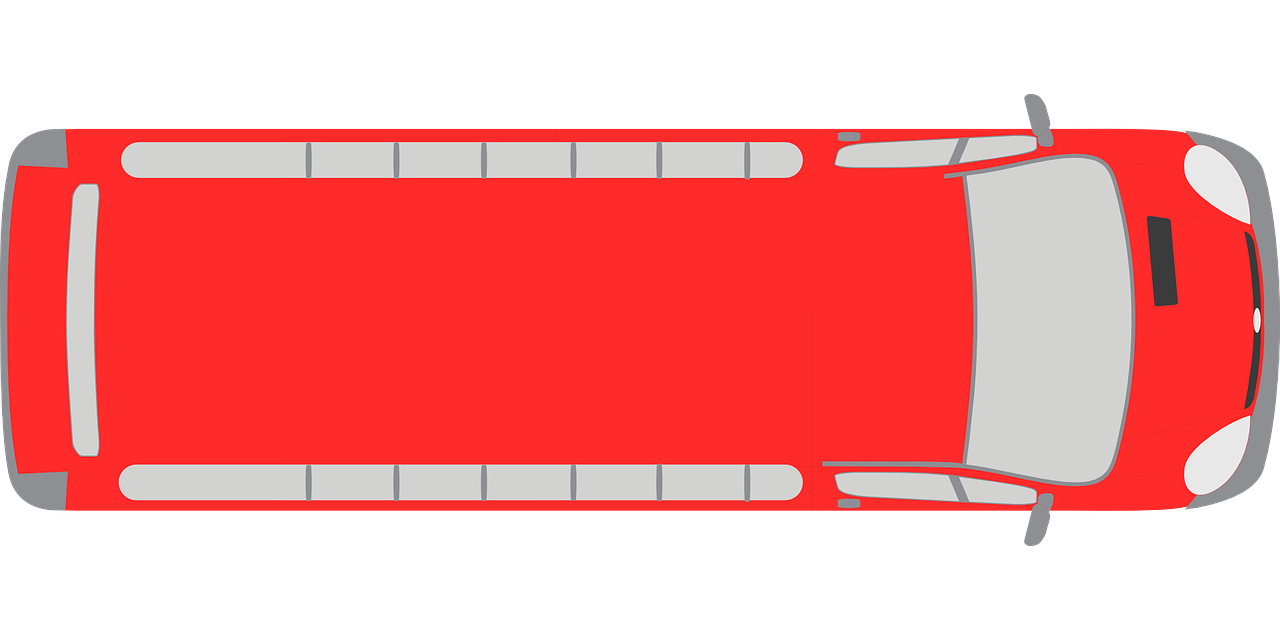
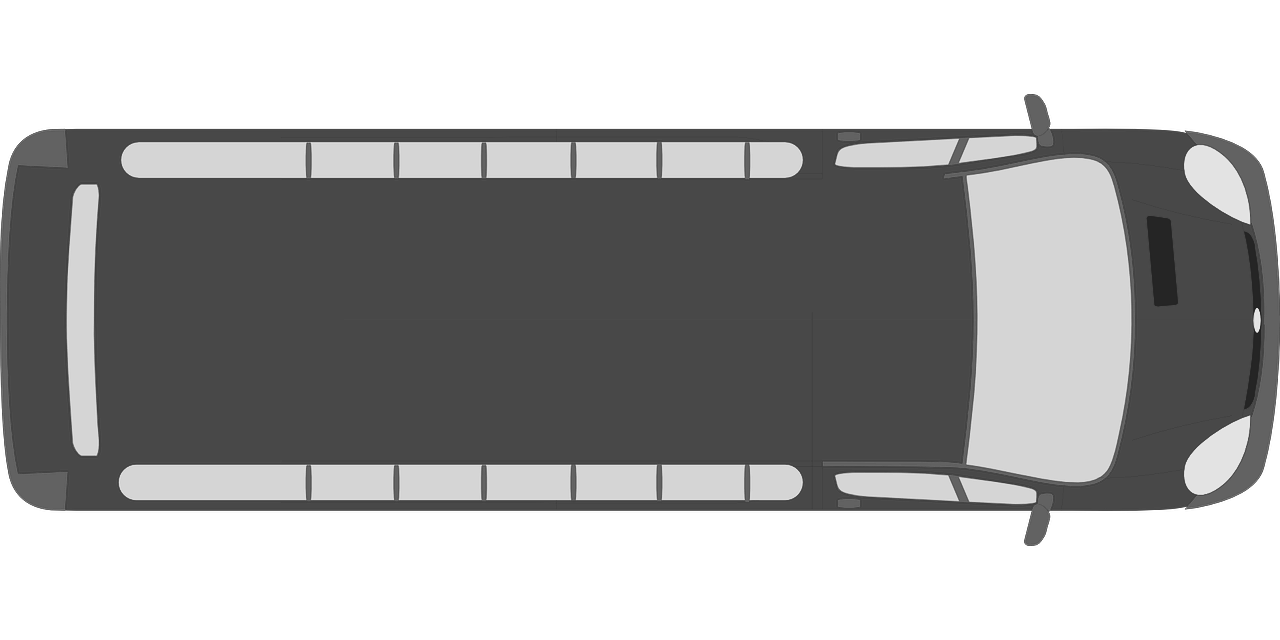
Almost done with the Login Page

diff --git a/fleetlink/src/pages/LandingPage.js b/fleetlink/src/pages/LandingPage.js
@@ -1,8 +1,9 @@
 import React, { useState } from 'react'
 import backgound from '../assets/asia-2181888.jpg'
-import { HashLoader } from 'react-spinners'
+// import { HashLoader } from 'react-spinners'
 import { GoArrowRight } from 'react-icons/go'
 import { useNavigate } from 'react-router-dom'
+import LoaderBus from '../assets/bus-310766_1280.png'
 
 const LandingPage = () => {
 
@@ -17,7 +18,7 @@ const LandingPage = () => {
     setLoading(false); // Reset loading after 3 seconds
       // You can navigate to the login page or perform other actions here
       history('/login')
-    }, 1500);
+    }, 3500);
   };
 
   const handleSignupClick = () => {
@@ -27,7 +28,7 @@ const LandingPage = () => {
     setLoading(false); // Reset loading after 3 seconds
       // You can navigate to the login page or perform other actions here
       history('/signup')
-    }, 1500);
+    }, 3500);
   };
 
 
@@ -59,10 +60,15 @@ const LandingPage = () => {
           
         </div>
       </div>
-      {loading && <div className="absolute inset-0 bg-transparent w-full h-full bg-opacity-80 backdrop-blur-sm" />}
+      {loading && <div className="absolute inset-0 bg-transparent w-full h-full bg-opacity-80 backdrop-blur-lg bg-white" />}
       {loading && (
         <div className="fixed left-1/2 -translate-x-1/2 top-1/2 transform -translate-y-1/2 items-center justify-center">
-          <HashLoader color="#36d7b7" />
+          {/* <HashLoader color="#36d7b7" /> */}
+          <div className="relative w-32 h-16">
+              <img src={LoaderBus} alt='LoaderBus' className="absolute w-32 h-16 rounded-full bg-bus-yellow animate-bus-moving"/>
+              {/* <div className="absolute w-32 h-16 rounded-full bg-bus-red animate-bus-moving reverse"></div> */}
+          </div>
+          
         </div>
       )}
     </div>

diff --git a/fleetlink/src/pages/Login.js b/fleetlink/src/pages/Login.js
@@ -1,15 +1,19 @@
 import React from 'react'
 import Headings from '../components/Headings'
+import LoginForm from '../components/LoginForm'
+
 
 const Login = () => {
   return (
-    <div className='bg-neutral-800 flex w-full h-screen flex-col'>
+    <div className='bg-neutral-800 flex w-full h-screen flex-col md:flex-row gap-1'>
         <Headings>
-            <div className='flex flex-col mt-4 w-20 md:w-full mr-auto md:mx-auto ml-16 md:ml-0 md:items-center md:justify-center gap-2'>
-                <h2 className='md:text-4xl font-bold'>Welcome Back!</h2>
-                <p className='font-semibold text-sm'>Continue your seamless rides</p>
+            <div className='flex flex-col -mt-[-2] md:mt-4 md:w-full mr-auto md:mx-auto ml-16 md:ml-0 md:items-center md:justify-center gap-1 md:gap-2 relative'>
+                <h2 className='text-sm md:text-4xl font-bold'>Welcome Back!</h2>
+                <p className='font-semibold text-xs md:text-sm'>Continue your seamless rides</p>
             </div>
         </Headings>
+        
+        <LoginForm />
     </div>
   )
 }

diff --git a/fleetlink/src/components/Preloader.jsx b/fleetlink/src/components/Preloader.jsx
@@ -4,7 +4,7 @@ import LoaderBus from '../assets/bus-310766_1280.png'
 
 const Preloader = () => {
   return (
-    <div className="flex justify-center items-center w-full h-screen bg-gray-900">
+    <div className="flex justify-center items-center w-full h-screen bg-white">
       <div className="relative w-32 h-16">
         <img src={LoaderBus} alt='LoaderBus' className="absolute w-32 h-16 rounded-full bg-bus-yellow animate-bus-moving"/>
         {/* <div className="absolute w-32 h-16 rounded-full bg-bus-red animate-bus-moving reverse"></div> */}

diff --git a/fleetlink/src/components/Backbutton.jsx b/fleetlink/src/components/Backbutton.jsx
@@ -10,7 +10,7 @@ const Backbutton = () => {
     }
 
   return (
-    <div className='bg-neutral-800 items-center justify-center flex p-1 md:p-1.5 rounded-tr-xl rounded-bl-xl self-start mt-2' onClick={handleGoBack}>
+    <div className='bg-neutral-800 items-center justify-center flex p-1 md:p-1.5 rounded-tr-xl rounded-bl-xl self-start relative mt-2 hover:cursor-pointer md:absolute md:top-10 md:left-5' onClick={handleGoBack}>
         <BiLeftArrowAlt className='text-white' size={15} />
     </div>
   )

diff --git a/fleetlink/src/components/Headings.jsx b/fleetlink/src/components/Headings.jsx
@@ -4,7 +4,7 @@ import Backbutton from './Backbutton'
 
 const Headings = ({ children }) => {
   return (
-    <div className='bg-white w-full h-[30%] fixed flex flex-col items-center rounded-bl-3xl p-4'>
+    <div className='bg-white w-full md:w-[50%] h-32 md:h-screen flex flex-col rounded-bl-3xl items-center justify-center p-4 mb-3 relative'>
         <Backbutton />
         {children}
     </div>

diff --git a/fleetlink/src/index.css b/fleetlink/src/index.css
@@ -15,7 +15,8 @@ body {
 } */
 
 .bg-bus-red {
-  background-color: #B91C1C;
+  background-color: #495057;
+  color: #495057;
 }
 
 @keyframes bus-move {
